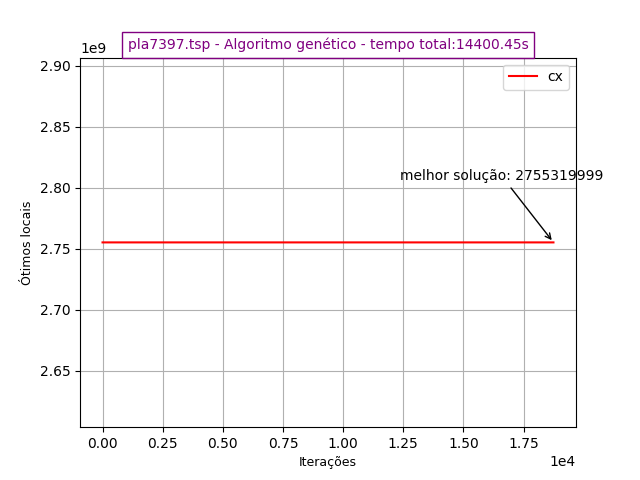
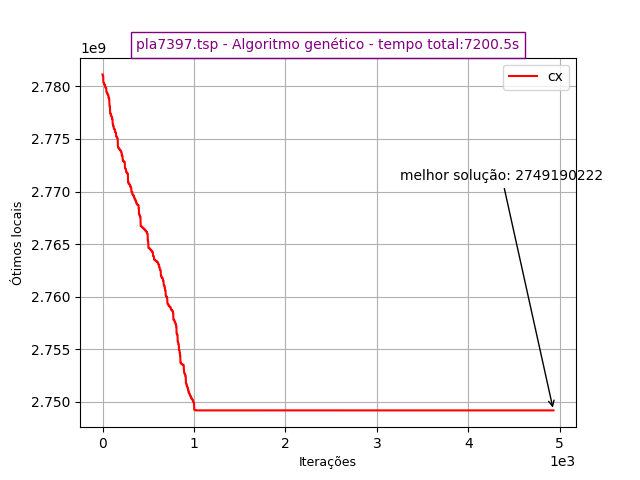
série séria, commit sério

diff --git a/PCV/genetico/genetic.py b/PCV/genetico/genetic.py
@@ -156,7 +156,7 @@ def two_opt(graph, route, x):
                     best_distance = new_distance
                     counter += 1
 
-                if x == 1 and counter >= 3:  # first improvement
+                if x == 1 and counter >= 1:  # first improvement
                     should_break = True
                     improved = False
                     break
@@ -174,6 +174,11 @@ def two_opt(graph, route, x):
 
 
 def pos(pais):
+    """
+
+    :param pais:
+    :return:
+    """
     positions = []
     filhos = [[0], [], []]
     li = range(1, localLen(pais[1]))
@@ -218,10 +223,10 @@ def cx(pais):
 
 ###########################################################################################
 
-def selection_by_tournament(graph, population, k, s):  # seleção por torneio
+def selection_by_tournament(graph, population, k):  # seleção por torneio
     selections = []
     pais = []
-    seed(s)
+    # seed(s)
     i1 = 1
     i2 = 2
 
@@ -313,7 +318,7 @@ def steady_stated(graph, population, filhos):
 
 ###########################################################################################
 
-def genetic(graph, pop, mut, max_i, max_t, s, cross_operator):
+def genetic(graph, pop, mut, max_i, max_t, s,cross_operator):
     population = []
     busca = []
     plt_opts = []
@@ -324,8 +329,6 @@ def genetic(graph, pop, mut, max_i, max_t, s, cross_operator):
 
     if pop > localLen(graph) - 1:
         pop = localLen(graph)
-
-    print(f'localLen(graph):{localLen(graph)}')
 
     # gerar população inicial
     print(f'Gerando população inicial...\n')
@@ -339,6 +342,8 @@ def genetic(graph, pop, mut, max_i, max_t, s, cross_operator):
     exe_time = 0
     while (exe_time <= max_t) and (it <= max_i):
 
+        random.seed(s)
+
         ### Avaliação ###
         best_solution = float('inf')
         for i in range(localLen(population) - 1):
@@ -350,7 +355,7 @@ def genetic(graph, pop, mut, max_i, max_t, s, cross_operator):
 
         #### Seleção ###
         print(f'\nSeleção:[{it}]')
-        pais = selection_by_tournament(graph, localDeepcopy(population), k, s)  # seleção por torneio
+        pais = selection_by_tournament(graph, localDeepcopy(population), k)  # seleção por torneio
         # pais = selection_by_fit(graph, population.copy(), index)
 
         ### Cruzamento ###
@@ -372,12 +377,13 @@ def genetic(graph, pop, mut, max_i, max_t, s, cross_operator):
 
         ### atualização ###
         print(f'\nAtualização da população:[{it}]')
-        population = steady_stated(graph, localDeepcopy(population), localDeepcopy(busca))
+        population = steady_stated(graph, population, busca)
 
         it += 1
         # s += 1
         exe_time = time.time() - start_time
 
     print(f'\nMelhor solução:{best_solution}\n')
-    file_name = sys.argv[len(sys.argv) - 1]
-    plot_graf(plt_opts, plt_counters, file_name, round(exe_time, 2), best_solution, cross_operator)
+    return plt_counters, plt_opts, best_solution
+
+    # plot_graf(plt_opts, plt_counters, file_name, round(exe_time, 2), best_solution, cross_operator)

diff --git a/PCV/genetico/aux.py b/PCV/genetico/aux.py
@@ -12,7 +12,7 @@ def printgraph(graph):
 
 ########################################################################################################################
 
-def plot_graf(opt_values, counter_values, file_name, exe_time, cost, cross_operator):
+def plot_graf(x_values1, y_values1, x_values2, y_values2, file_name, cost1, cost2, cross_operator1, cross_operator2):
     # print("otimos locais {}".format(opt_values))
 
     # print("i {}".format(counter_values))
@@ -20,32 +20,42 @@ def plot_graf(opt_values, counter_values, file_name, exe_time, cost, cross_opera
     # plt.axis('auto')
     name = 'Algoritmo genético'
     plt.title(
-        f'{file_name} - {name} - tempo total:{exe_time}s',
+        f'{file_name} - {name}',
         loc='center',
         bbox=dict(facecolor='none', edgecolor='purple'),
         color='purple',
         fontsize=10
     )
+
     plt.annotate(
-        f'melhor solução: {cost}',
-        xytext=(400, 300),
+        f'fitness {cross_operator1}:{cost1}',
+        xytext=(400, 150),
         textcoords='figure pixels',
-        xy=(counter_values[localLen(counter_values) - 1], opt_values[localLen(opt_values) - 1]),
+        xy=(x_values1[localLen(x_values1) - 1], y_values1[localLen(y_values1) - 1]),
         arrowprops=dict(arrowstyle="->", connectionstyle="arc3")
     )
 
-    if opt_values[0] > 10000:
+    plt.annotate(
+        f'fitness {cross_operator2}:{cost2}',
+        xytext=(400, 300),
+        textcoords='figure pixels',
+        xy=(x_values2[localLen(x_values2) - 1], y_values2[localLen(y_values2) - 1]),
+        arrowprops=dict(arrowstyle="->", connectionstyle="arc3")
+    )
+
+    if y_values1[0] > 10000 or y_values2 > 10000:
         plt.ticklabel_format(useOffset=True)
         plt.ticklabel_format(axis='x', style='sci', scilimits=(0, 0))
         plt.ticklabel_format(axis='y', style='sci', scilimits=(0, 0))
 
     plt.grid(True)
-    plt.xlabel("Iterações", fontsize=9)
-    plt.ylabel("Ótimos locais", fontsize=9)
-    plt.plot(counter_values, opt_values, label=f'{cross_operator}',  color='red')
+    plt.xlabel("Generation", fontsize=9)
+    plt.ylabel("Fitness(Mean best)", fontsize=9)
+    plt.plot(x_values1, y_values1, label=f'{cross_operator1}', color='red')
+    plt.plot(x_values2, y_values2, label=f'{cross_operator2}', color='green')
     # plt.scatter(counter_values, opt_values, marker="+", color='red')
     plt.legend(loc='best')
     plt.savefig(
-        f'{name.replace(" ", "-") + "_" + cross_operator + "_" +  file_name.replace(" ", "_").replace(".tsp", ".png")}')
+        f'{name.replace(" ", "-") + "_" + file_name.replace(" ", "_").replace(".tsp", ".png")}')
     plt.show()
     # print(route)

diff --git a/PCV/genetico/input.py b/PCV/genetico/input.py
@@ -26,11 +26,7 @@ def fileinput():
     parser.add_argument(dest="filename", help='arquivo .tsp',
                         type=lambda x: is_valid_file(parser, x))
 
-    parser.add_argument('-cross', action='store', dest='cross_operator', default='cx',
-                        required=False,
-                        help="Operador de cruzamento, cx para algoritmo 'Cycle crossover', pos para algoritmo 'Position based crossover' ")
-
-    parser.add_argument('-pop', action='store', type=int, dest='population', default=20,
+    parser.add_argument('-pop', action='store', type=int, dest='population', default=25,
                         required=False,
                         help="Tamanho da população inicial (padrão: 25)")
 
@@ -38,15 +34,15 @@ def fileinput():
                         required=False,
                         help="Porcentagem de mutação (padrão: 5 )")
 
-    parser.add_argument('-max_i', action='store', dest='max_iteration', default=200000,  #
+    parser.add_argument('-max_i', action='store', dest='max_iteration', default=20000000,  #
                         required=False,
                         help="Máximo de iterações (padrão: 2000)")
 
-    parser.add_argument('-max_t', action='store', dest='max_time', default=60,  #
+    parser.add_argument('-max_t', action='store', dest='max_time', default=120,  #
                         required=False,
                         help="Máximo de tempo de execução (minutos) (padrão: 60)")
 
-    parser.add_argument('-s', action='store', dest='seed', default=10,
+    parser.add_argument('-s', action='store', dest='seed', default=1,
                         required=False,
                         help="Semente randômica (padrão: 1)")
 

diff --git a/PCV/genetico/main.py b/PCV/genetico/main.py
@@ -3,7 +3,8 @@
 
 from input import fileinput
 from genetic import genetic
-
+from aux import plot_graf
+import sys
 
 """
     Genetic Algorithm project
@@ -13,7 +14,16 @@ from genetic import genetic
 
 if __name__ == '__main__':
 
+    file_name = sys.argv[len(sys.argv) - 1]
+
     ### Input ###
     args, graph = fileinput()
 
-    genetic(graph[:], int(args.population), int(args.mutation), int(args.max_iteration), int(args.max_time) * 60, int(args.seed), args.cross_operator)
+    # genetic(graph[:], int(args.population), int(args.mutation), int(args.max_iteration), int(args.max_time) * 60, int(args.seed), args.cross_operator)
+    x1, y1, best_solution1 = genetic(graph[:], int(args.population), int(args.mutation), int(args.max_iteration), int(args.max_time) * 60, int(args.seed), 'cx')
+
+    x2, y2, best_solution2 = genetic(graph[:], int(args.population), int(args.mutation), int(args.max_iteration), int(args.max_time) * 60, int(args.seed), 'pos')
+
+    plot_graf(x1, y1, x2, y2, file_name, best_solution1, best_solution2, 'cx', 'pos')
+
+

diff --git a/PCV/main.py b/PCV/main.py
@@ -2,7 +2,7 @@
 
 from input import fileinput
 from constructive_matrix import nearestneighbour_matrix, insertdist_matrix, getalldistances, insertcheap_matrix
-from constructive import nearestneighbour, insertdist, insertcheap, distantneighbour, genetic
+from constructive import nearestneighbour, insertdist, insertcheap, distantneighbour
 from improvement_matrix import two_opt_matrix, sumdistance_matrix
 from improvement import two_opt, sumdistance, three_opt
 from aux import printgraph, plot_graf
